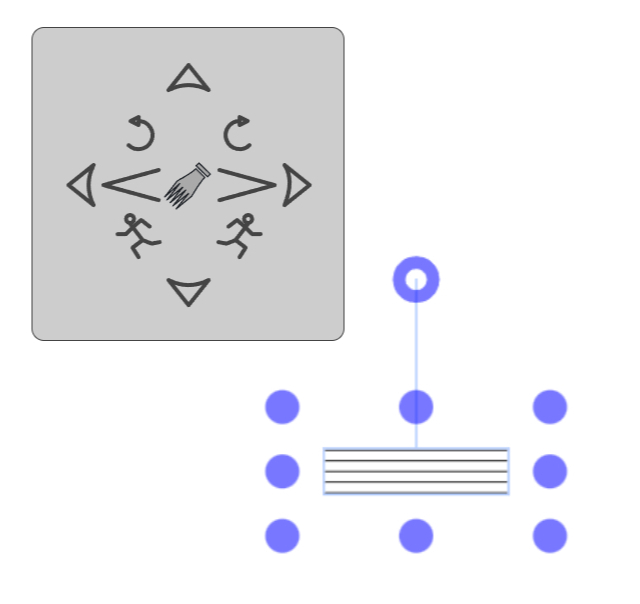
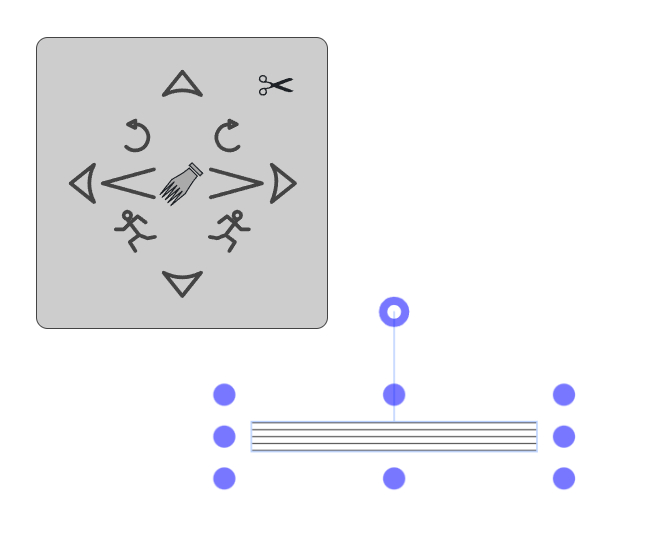
Trying to do last minute polishing.

diff --git a/doc/Guidebook.html b/doc/Guidebook.html
@@ -728,7 +728,7 @@ function closeVideo(event, container) {
                 <li><a href="#chapter-2-extension">2.1 Browser Extension</a> — <span style="color:#777">Install as a browser extension on desktop</span></li>
                 <li><a href="#chapter-2-pwa">2.2 Progressive Web App (PWA)</a> — <span style="color:#777">Install as a standalone app on any device</span></li>
                 <li><a href="#chapter-2-compat">2.3 Browser Compatibility</a> — <span style="color:#777">Supported browsers and platforms</span></li>
-                <li><a href="#chapter-2-footpedal">2.4 Foot Pedal</a> — <span style="color:#777">Page turning with a Bluetooth foot pedal</span></li>
+                <li><a href="#chapter-2-foot pedal">2.4 Foot Pedal</a> — <span style="color:#777">Page turning with a Bluetooth foot pedal</span></li>
             </ul>
         </li>
         <li><a href="#chapter-3">Chapter 3: Interface Basics</a> — <span style="color:#777">Menu, panels, gestures, background</span></li>
@@ -820,7 +820,7 @@ function closeVideo(event, container) {
     <p><strong>...with input devices:</strong></p>
     <ul>
         <li>S-Pen, Apple Pencil, USI styli, fingers and thumbs</li>
-        <li>Mouse, track pad, keyboard, footpedal page turners</li>
+        <li>Mouse, track pad, keyboard, foot pedal page turners</li>
     </ul>
     <p><strong>...and practice tools:</strong></p>
     <ul>
@@ -945,10 +945,10 @@ function closeVideo(event, container) {
     <p><a href="#chapter-3" class="chapter-link">See Chapter 3: Interface Basics</a> for complete interface details</p>
 
     <h4>Panels</h4>
-    <p>Cells with small diamond-shaped pointers (like compass points) conceal panels used to confgure the cell. Drag out from these cells to reveal the panel. Using this touch-drag-release motion, you can open and position any panel with a single gesture.  Once open, you can always reposition a panel by dragging on its textured header. Hide any panel by flinging it, in any direction, from the header. Alterntively,  close it by tapping the &#x1F5D9; button.</p>
+    <p>Cells with small diamond-shaped pointers (like compass points) conceal panels used to configure the cell. Drag out from these cells to reveal the panel. Using this touch-drag-release motion, you can open and position any panel with a single gesture. Once open, you can always reposition a panel by dragging on its textured header. Hide any panel by flinging it, in any direction, from the header. Alternatively, close it by tapping the &#x1F5D9; button.</p>
 
     <h4>Resizing and Moving</h4>
-    <p>We've just seen that panels can be moved my dragging on their textured header. In addition, everything in Podium—menu, panels, layouts—is resizable and movable using two-finger pinch-and-pan gestures (or Ctrl+mouse/Ctrl+wheel for desktop). <a href="#chapter-3" class="chapter-link">See Chapter 3: Interface Basics</a> for details.</p>
+    <p>We've just seen that panels can be moved by dragging on their textured header. In addition, everything in Podium—menu, panels, layouts—is resizable and movable using two-finger pinch-and-pan gestures (or Ctrl+mouse/Ctrl+wheel for desktop). <a href="#chapter-3" class="chapter-link">See Chapter 3: Interface Basics</a> for details.</p>
 
     <h4>Gestures:</h4>
     <ul>
@@ -1026,7 +1026,7 @@ function closeVideo(event, container) {
     <p><a href="#chapter-9" class="chapter-link">See Chapter 9: More Ring</a> for detailed information on each practice tool</p>
 
     <h3>Keyboard and Pedal Support</h3>
-    <p>Podium works with footpedal page turners that simulate arrow key presses. Configure arrow key behavior in the Page Ring's Numbers panel to map pedal presses to page turns or bookmark navigation.</p>
+    <p>Podium works with foot pedal page turners that simulate arrow key presses. Configure arrow key behavior in the Page Ring's Numbers panel to map pedal presses to page turns or bookmark navigation.</p>
     <p><a href="#chapter-7-numbers" class="chapter-link">See Chapter 7: Page Ring - Numbers</a> for keyboard shortcut configuration</p>
 
     <h3>Need Help?</h3>
@@ -1043,7 +1043,7 @@ function closeVideo(event, container) {
 
     <p>However, installation may be desirable in certain situations, especially when using Podium in performance where internet connectivity cannot be assumed.</p>
 
-    <p><strong>Offline use.</strong> After your first visit, Podium stores itself on your device automatically, so it can open and run without an internet connection, even without explicit installation. However, if you plan to use Podium offline, for example in performance, <strong>installing it is strongly recommended</strong>. Without explicit installation, the browser may quietly discard the stored copy when it needs space or when you clear your browsing history, leaving you without Podium when you need it most.  Fortunately, Podium is remarkably compact: the storage it uses on your device is roughly equivalent to two photos from a typical smartphone camera.</p>
+    <p><strong>Offline use.</strong> After your first visit, Podium stores itself on your device automatically, so it can open and run without an internet connection, even without explicit installation. However, if you plan to use Podium offline, for example in performance, <strong>installing it is strongly recommended</strong>. Without explicit installation, the browser may quietly discard the stored copy when it needs space or when you clear your browsing history, leaving you without Podium when you need it most. Fortunately, Podium is remarkably compact: the storage it uses on your device is roughly equivalent to two photos from a typical smartphone camera.</p>
 
     <p>Installing as a <strong>browser extension</strong> or <strong>PWA</strong> makes Podium a permanent resident on your device. The extension, being fully self-contained, is the most robust option for offline use on desktop. A PWA install is equally reliable on Android, desktop, and Chromebook. The one exception is iPhone and iPad: even as an installed PWA, the system may occasionally require an internet connection after a long period of inactivity; simply open Podium every now and then to keep it fresh.</p>
 
@@ -1083,7 +1083,7 @@ function closeVideo(event, container) {
 
     <p><strong>Android (Chrome):</strong> Tap the browser menu (three dots) and select <strong>Add to Home Screen</strong>. A popup will offer two options: choose <strong>Install</strong> (not "Create shortcut") for the full PWA experience with the correct icon and offline support. Podium will appear in your apps drawer, where you can add it to your home screen in the usual way.</p>
 
-    <p><strong>iPhone/iPad:</strong> Apple does not display automatic install prompts for PWAs. To install, open Podium in your mobile browser (such as Safari or Chrome), tap the <strong>Share button</strong> <span style="display:inline-block;position:relative;width:.7em;height:1em;vertical-align:-.15em;">&#x2610;<span style="position:absolute;left:.1em;top:-.55em;font-size:1.2em;">&#x2191;</span></span> in the toolbar (iPhone: bottom centre; iPad: beside the address bar), scroll down in the share sheet and tap <strong>"Add to Home Screen"</strong>, then tap <strong>"Add"</strong>. Once installed, the Podium icon appears on your home screen; if you long-press it, the system refers to it as a <strong>bookmark</strong> — this is normal Apple terminology for home screen web apps. Also note that if the PWA is not used for several weeks, the iPhone/iPad system may offload the app's data. This can cause settings to reset or require an internet connection to re-verify the app on its next launch. To prevent this, simply open Podium occasionally.</p>
+    <p><strong>iPhone/iPad:</strong> Apple does not display automatic install prompts for PWAs. To install, open Podium in your mobile browser (such as Safari or Chrome), tap the <strong>Share button</strong> <span style="display:inline-block;position:relative;width:.7em;height:1em;vertical-align:-.15em;">&#x2610;<span style="position:absolute;left:.1em;top:-.55em;font-size:1.2em;">&#x2191;</span></span> in the toolbar (iPhone: bottom center; iPad: beside the address bar), scroll down in the share sheet and tap <strong>"Add to Home Screen"</strong>, then tap <strong>"Add"</strong>. Once installed, the Podium icon appears on your home screen; if you long-press it, the system refers to it as a <strong>bookmark</strong> — this is normal Apple terminology for home screen web apps. Also note that if the PWA is not used for several weeks, the iPhone/iPad system may offload the app's data. This can cause settings to reset or require an internet connection to re-verify the app on its next launch. To prevent this, simply open Podium occasionally.</p>
 
     <div class="note">A significant advantage of the PWA over running Podium in a browser tab is that it always occupies the full screen with no browser toolbar, address bar, or other distractions: a clean, app-like experience unique to the PWA. As a result, the Screen button and the full-screen swipe gesture have no effect when running as a PWA, since Podium is already in full screen.</div>
 
@@ -1160,7 +1160,7 @@ function closeVideo(event, container) {
     <a href="#toc" class="back-to-toc">↑ Back to Table of Contents</a>
 </section>
 
-<section id="chapter-2-footpedal">
+<section id="chapter-2-foot pedal">
     <h3>2.4 Foot Pedal</h3>
 
     <p>Podium works with Bluetooth foot pedal page turners commonly used by performing musicians. Most foot pedals emulate keyboard arrow keys — Podium detects these and uses them to turn pages.</p>
@@ -1245,15 +1245,15 @@ function closeVideo(event, container) {
         <figcaption>Rotating a ring to reveal hidden cells when the menu is near a screen edge</figcaption>
     </figure>
 
-    <h3>Panels</h3>
+    <h3 id="chapter-3-panels">Panels</h3>
 
     <p>Menu cells with small diamond-shaped pointers contain hidden panels. To open a panel, drag inward or outward. As long as the drag motion isn't circular, the panel will be revealed&mdash;circular motion rotates the ring instead.</p>
 
-    <div class="note"> Revealing a panel does not activate the corresponding cell&mdash;cell activation by tapping is a completely independent gesture.</div>
+    <div class="note"> Revealing a panel does not activate the corresponding cell&mdash;cell activation by tapping is a completely independent gesture. However, once a panel is revealed, double-tapping its textured header can be used to activate or de-activate the cell.</div>
 
     <p><strong>Moving panels:</strong> Drag from the textured header, or use two-fingers (Ctrl-mouse-drag) to drag anywhere on the panel.</p>
 
-    <p><strong>Resizing panels:</strong> Use two-finger pinch-zoom, with at least one finger on the panel (Ctrl-mouse-wheel, or Ctrl-Shift-mouse wheel for greater precision).  Only the selected panel will resize.</p>
+    <p><strong>Resizing panels:</strong> Use two-finger pinch-zoom, with at least one finger on the panel (Ctrl-mouse-wheel, or Ctrl-Shift-mouse wheel for greater precision). Only the selected panel will resize.</p>
 
     <p><strong>Closing vs. hiding:</strong></p>
     <ul>
@@ -1262,6 +1262,8 @@ function closeVideo(event, container) {
     </ul>
 
     <div class="note">Most panels work the same whether closed or hidden. However, panels that run continuously (Metronome, Stopwatch, Clock, Review) will keep running in the background when hidden. For example, a hidden Metronome keeps ticking, but a closed one stops completely.</div>
+
+    <p><strong>Double-tap to activate:</strong> Double-tapping any panel's textured header activates its corresponding menu cell&mdash;exactly as if you had tapped the cell in the ring. If the second tap is a long press (held for about half a second), the cell is also locked. This is a convenient shortcut for activating or de-activating a tool from its open panel, without reaching for the menu.</p>
 
     <h3>Sliders</h3>
 
@@ -1428,7 +1430,7 @@ function closeVideo(event, container) {
         <li><strong>Page Range:</strong> Specify the start and end pages to print a subset of the score</li>
     </ul>
 
-    <div class="note"><strong>iPhone/iPad:</strong> Safari does not support automatic print dialogs from web apps. After tapping Ink or No Ink, your PDF will open in a new tab. From there, tap the Share button <span style="display:inline-block;position:relative;width:.7em;height:1em;vertical-align:-.15em;">&#x2610;<span style="position:absolute;left:.1em;top:-.55em;font-size:1.2em;">&#x2191;</span></span> in the toolbar (iPhone: bottom centre; iPad: beside the address bar) and choose <strong>Print</strong>.</div>
+    <div class="note"><strong>iPhone/iPad:</strong> Safari does not support automatic print dialogs from web apps. After tapping Ink or No Ink, your PDF will open in a new tab. From there, tap the Share button <span style="display:inline-block;position:relative;width:.7em;height:1em;vertical-align:-.15em;">&#x2610;<span style="position:absolute;left:.1em;top:-.55em;font-size:1.2em;">&#x2191;</span></span> in the toolbar (iPhone: bottom center; iPad: beside the address bar) and choose <strong>Print</strong>.</div>
 
     <div class="note">Large scores or scores with particularly dense or poorly encoded, unoptimized PDF content can fail while printing. If you encounter printing failures, try printing the score in several smaller sections by specifying different page ranges.</div>
 
@@ -1579,7 +1581,7 @@ function closeVideo(event, container) {
 
     <p>Settings for this layout function identically to the Horizontal Layout, see previous section.</p>
 
-    <div class="note">If you have a footpedal, try using a very slow <strong>Pace:</strong> setting with Vertical Layout. If you set the <strong>pgSnap:</strong> value to, say 1/2 a page, and use a pace around 8 seconds/snap, then a footpedal press will cause the page to scroll upward gradually as you read it, allowing you to easily read across the boundary between one page and the next. This technique is illustrated in the video above.</div>
+    <div class="note">If you have a foot pedal, try using a very slow <strong>Pace:</strong> setting with Vertical Layout. If you set the <strong>pgSnap:</strong> value to, say 1/2 a page, and use a pace around 8 seconds/snap, then a foot pedal press will cause the page to scroll upward gradually as you read it, allowing you to easily read across the boundary between one page and the next. This technique is illustrated in the video above.</div>
 
     <div class="note"><strong>Try disabling Snap.</strong> Slide the Snap slider all the way to the left to turn it off. With snapping disabled, pages scroll freely and continuously, letting you position the score exactly where you need it. You can line up the bottom of one page directly above the top of the next, eliminating the visual interruption between pages. </div>
 
@@ -1849,6 +1851,8 @@ function closeVideo(event, container) {
     <h4>Edit Panel</h4>
 
     <p>Drag out from the Edit cell to open the Edit panel, which provides precise controls for fine-tuning the position, size, and rotation of annotation objects — particularly useful when touch handles are too coarse for accurate adjustment, or when working with a stylus.</p>
+    <div class="note"><strong>Pro Tip:</strong> While editing annotations using direct manipulation works great for quick, simple tasks, the Edit Panel becomes invaluable when annotations become dense. Highly recommended if you are doing a lot of annotation.</div>
+
 
     <figure>
         <img src="assets/inkedit.jpg" alt="Edit panel (detached), showing a rastrum annotation as the current target">
@@ -1857,13 +1861,18 @@ function closeVideo(event, container) {
 
     <p>The center of the panel displays the icon of the currently selected <strong>target object</strong>. To change the target, simply touch or interact with the desired annotation. Alternatively, use the <strong>running stick-figure</strong> icons to step to the next or previous annotation, on the same page, in stacking order. Stacking order is determined by interaction history: the most recently touched or moved object sits at the front of the stack.</p>
 
+    <p>When the Edit Panel is open, clicking on an empty spot on a page&mdash;where there is no annotation&mdash;will automatically select the most recently selected annotation on that page.</p>
+
     <ul>
         <li><strong>Arrow buttons</strong> — move the target left, right, up, or down.</li>
         <li><strong>Crescendo button</strong> — enlarges the target.</li>
         <li><strong>Decrescendo button</strong> — shrinks the target.</li>
         <li><strong>Rotation buttons</strong> — rotate the target clockwise or counterclockwise.</li>
-        <li><strong>Runner buttons</strong> — target the next of previous annotation on the page.</li>
+        <li><strong>Runner buttons</strong> — target the next or previous annotation on the page.</li>
+        <li><strong>Scissors button</strong> — cuts the target annotation, placing it in the paste buffer. The next annotation in stacking order automatically becomes the new target.</li>
     </ul>
+
+    <p><strong>Keyboard shortcut:</strong> When an annotation is selected, pressing <kbd>Delete</kbd> or <kbd>Backspace</kbd> cuts it&mdash;equivalent to tapping the scissors button.</p>
 
     <h3>Annotations and Workflow Tips</h3>
 
@@ -1874,8 +1883,6 @@ function closeVideo(event, container) {
     <p><strong>Performance considerations:</strong> Annotations, especially free drawings with many pen/pencil strokes, can significantly increase the size of a saved score. For complex annotated pages, consider using the Flatten operation (in the <a href="#chapter-7" class="chapter-link">Page Ring</a>) to convert annotations into the PDF itself, which can improve performance.</p>
 
     <p><strong>Precision workflow:</strong> For precise notation work, combine the Grid tool with Rastrum for staff placement, then use Symbols to add notation. The Edit tool allows fine-tuning of symbol positions after placement.</p>
-
-    <p><strong>Reusable symbol library:</strong> If you frequently reuse a set of symbols, <a href="#chapter-7-add" class="chapter-link">add a blank page</a> to your score and place those symbols on it. This creates a personal symbol library that's always available for Copy/Paste. You can easily move this symbol set page around the score using Page Ring commands or by dragging pages in the <a href="#chapter-5-table" class="chapter-link">Table Layout</a>.</p>
 
     <a href="#toc" class="back-to-toc">↑ Back to Table of Contents</a>
 </section>
@@ -1944,9 +1951,9 @@ function closeVideo(event, container) {
 
     <p>This is useful when working with excerpts from larger scores. Here, you might have extracted a title page, table of contents, and pages 143-145 from a complete work. The numbering scheme preserves the original page references.</p>
 
-    <h4>Footpedal Keys:</h4>
+    <h4>Foot Pedal Keys:</h4>
 
-    <p>These controls are designed for Bluetooth footpedal page turners commonly used by musicians. Since footpedals are simply specialized keyboards with only a few keys, these commands work equally well with regular computer keyboards.</p>
+    <p>These controls are designed for Bluetooth foot pedal page turners commonly used by musicians. Since footpedals are simply specialized keyboards with only a few keys, these commands work equally well with regular computer keyboards.</p>
 
     <p>You can assign one shortcut to the up or right cursor arrow keys, and one to the left or down cursor arrow keys. Tap the appropriate button to determine if an up or right key press will navigate to the next page, or instead navigate to the next bookmark. Similarly, choose the appropriate button to determine if the left or down keys will navigate to the previous page, or navigate to the previous bookmark.</p>
 
@@ -1960,7 +1967,7 @@ function closeVideo(event, container) {
         <li><strong>End:</strong> Jump to last page</li>
         <li><strong>Ctrl+Home:</strong> Jump to first bookmark</li>
         <li><strong>Ctrl+End:</strong> Jump to last bookmark</li>
-        <li><strong>Ctrl+Arrow:</strong> Navigate to next/previous bookmark (regardless of the footpedal arrow key setting above)</li>
+        <li><strong>Ctrl+Arrow:</strong> Navigate to next/previous bookmark (regardless of the foot pedal arrow key setting above)</li>
         <li><strong>PageUp / PageDown:</strong> Navigate to previous/next page</li>
     </ul>
 
@@ -2073,7 +2080,7 @@ function closeVideo(event, container) {
     <p>In Podium, each page comprises two overlapping layers:</p>
     <ul>
         <li>A background layer that displays the PDF content of the score [courtesy of the open-source Mozilla PDF library].</li>
-        <li>An annotation layer that displays editable Ink objects added to the score [courtesy of the open-source fabricjs library].</li>
+        <li>An annotation layer that displays editable Ink objects added to the score [courtesy of the open-source Fabric.js library].</li>
     </ul>
 
     <p>Activate the Flatten cell, then tap a page to flatten its annotation layer into the background layer. The operation converts all of the page's Ink annotation objects into PDF objects, then incorporates these objects into the background PDF layer [courtesy of the open-source pdf-lib library]. After that, these objects can no longer be selected or edited: they have become an integral part of the score's background PDF.</p>
@@ -2252,6 +2259,8 @@ function closeVideo(event, container) {
 
     <p>To change the target, simply touch or interact with the desired object. Alternatively, use the <strong>running stick-figure</strong> icons on the panel to step to the next or previous Podium object in stacking order. Stacking order is determined by interaction history: the most recently touched or moved object sits at the front of the stack.</p>
 
+    <p>When the Edit Panel is open, clicking on an empty spot on a page&mdash;where there is no annotation&mdash;will automatically select the most recently selected annotation on that page.</p>
+
     <a href="#toc" class="back-to-toc">↑ Back to Table of Contents</a>
 </section>
 
@@ -2376,7 +2385,7 @@ function closeVideo(event, container) {
 
     <div class="note">The pitch detector is monophonic: it works best with a single note at a time. When multiple pitches or unpitched sounds (such as speech or noise) are present in the microphone input, the detector will produce unreliable results.</div>
 
-    <div class="note"><strong>iPhone/iPad:</strong> Due to audio system constraints on these devices, the microphone indicator will remain active after the pitch detector is turned off. This is expected behaviour — the microphone is kept open in the background to prevent interruption of piano and metronome audio. The microphone is fully released when the Piano panel is closed.</div>
+    <div class="note"><strong>iPhone/iPad:</strong> Due to audio system constraints on these devices, the microphone indicator will remain active after the pitch detector is turned off. This is expected behavior — the microphone is kept open in the background to prevent interruption of piano and metronome audio. The microphone is fully released when the Piano panel is closed.</div>
 
     <figure>
         <img src="assets/morepianodetect.jpg" alt="Piano pitch detector">
@@ -2481,7 +2490,7 @@ function closeVideo(event, container) {
         <li><strong>Progressive search</strong> — as you type, the result in the active changes to show only the first matching item. Progressive search is available in file panels (Open and Save) and in any dropdown, most usefully the category picker in the <a href="#chapter-6-symbols" class="chapter-link">Symbols panel</a>.</li>
     </ul>
 
-    <p>The key labelled "<strong>…</strong>" switches the keyboard to its <strong>special keys</strong> layout, which includes international characters, cursor arrow keys, and the Home and End keys. The key labelled "<strong>Aa</strong>" switches back to the normal letter keys. The arrow keys are also useful for testing your <a href="#chapter-7-numbers" class="chapter-link">Bluetooth footpedal configuration</a> without needing the physical pedal nearby.</p>
+    <p>The key labeled "<strong>…</strong>" switches the keyboard to its <strong>special keys</strong> layout, which includes international characters, cursor arrow keys, and the Home and End keys. The key labeled "<strong>Aa</strong>" switches back to the normal letter keys. The arrow keys are also useful for testing your <a href="#chapter-7-numbers" class="chapter-link">Bluetooth foot pedal configuration</a> without needing the physical pedal nearby.</p>
 
 
     <figure>
@@ -2584,7 +2593,7 @@ function closeVideo(event, container) {
         <dt>Firefox settings</dt><dd> &mdash; <a href="#firefox-settings">4.1</a></dd>
         <dt>Flatten<svg class="gb-icon" style="margin-left:0.3em"><use href="#gb-flatten"/></svg></dt><dd> &mdash; <a href="#chapter-7-flatten">7.7</a></dd>
         <dt>Fling gesture</dt><dd> &mdash; <a href="#chapter-5-page-turning">4.1</a>, <a href="#chapter-3">Ch.3</a></dd>
-        <dt>Footpedal</dt><dd> &mdash; <a href="#chapter-7-numbers">7.1</a>, <a href="#chapter-2-footpedal">chapter-2-footpedal</a></dd>
+        <dt>Foot Pedal</dt><dd> &mdash; <a href="#chapter-7-numbers">7.1</a>, <a href="#chapter-2-foot pedal">chapter-2-foot pedal</a></dd>
         <dt>Full screen</dt><dd> &mdash; <a href="#chapter-8-screen">8.7</a>, <a href="#chapter-3">Ch.3</a></dd>
     </dl>
     <div class="idx-letter">G</div>

diff --git a/src/score.js b/src/score.js
@@ -258,16 +258,6 @@ class Pg {
           }
         }
 
-        canvas.on('text:editing:entered', (e) => {
-          // text box's cursor can be misaligned without this:
-          if(e.target && e.target.type == 'textbox') {
-            fabric.charWidthsCache = {} ; // clear this cache
-            e.target.initDimensions() ;
-            e.target.setCoords();
-            e.target.selectionStart = e.target.selectionStart;
-          }
-        });
-
         if (_menu_.activeRing.key == "ink" && ["cut","copy","edit"].includes(_menu_.activeRing.activeCell.key))
          _menu_.pgEvent(opts, this);
         EditPanel.update(this.canvas.getActiveObject()) ;
@@ -275,6 +265,16 @@ class Pg {
 
       canvas.on("selection:created", onSelection);
       canvas.on("selection:updated", onSelection);
+
+      canvas.on('text:editing:entered', (e) => {
+        // text box's cursor can be misaligned without this:
+        if(e.target && e.target.type == 'textbox') {
+          fabric.charWidthsCache = {} ; // clear this cache
+          e.target.initDimensions() ;
+          e.target.setCoords();
+          e.target.selectionStart = e.target.selectionStart;
+        }
+      });
 
       canvas.on("selection:cleared", () => {
         canvas.perPixelTargetFind = true;
@@ -382,12 +382,14 @@ class Pg {
 
       // create object URL for fabric canvas
       let fabCanvas = this.canvas.toCanvasElement(scale * this.stretch);
+      if (this.fabUrl) URL.revokeObjectURL(this.fabUrl);
       this.fabUrl = URL.createObjectURL(await new Promise((res) => fabCanvas.toBlob((b) => res(b))));
 
       if(this.mozCanvas) {
         // create obj URL for mozCanvas (from mozilla pdf src);
         let pdfCanvas = helm(`<canvas width="${maxW}" height="${maxH}"></canvas>`);
         pdfCanvas.getContext("2d").drawImage(this.mozCanvas, 0, 0, maxW, maxH);
+        if (this.pdfUrl) URL.revokeObjectURL(this.pdfUrl);
         this.pdfUrl = URL.createObjectURL(await new Promise((res) => pdfCanvas.toBlob((b) => res(b))));
         // set both fabricCanvas (annotations) and pdfCanvas (pdf image) as background to thumbElm
         this.thumbElm.style.backgroundImage = "url('" + this.fabUrl + "'), url('" + this.pdfUrl + "')";

diff --git a/doc/releaseNotes.html b/doc/releaseNotes.html
@@ -179,8 +179,8 @@
     <h2>Versions</h2>
     <ul>
         <li><a href="#v2.1">Version 2.1</a> <span class="version-date">— upcoming</span></li>
-        <li><a href="#v2.0">Version 2.0</a> <span class="version-date">— March 2026</span></li>
         <li><a href="#v2.0.2">Version 2.0.2</a> <span class="version-date">— April 2026</span></li>
+        <li><a href="#v2.0">Version 2.0</a> <span class="version-date">— March 2026</span></li>
         <li><a href="#v1.1">Version 1.1</a> <span class="version-date">— December 2025</span></li>
         <li><a href="#v1.0">Version 1.0</a> <span class="version-date">— March 2025</span></li>
     </ul>
@@ -272,6 +272,15 @@
         <p>The center of the panel shows the icon of the current target annotation. Touch any annotation to make it the target, or use the running stick-figure icons to step through annotations in stacking order. Four arrow buttons move the target; crescendo and decrescendo buttons enlarge or shrink it; and two rotation buttons rotate it clockwise or counterclockwise.</p>
         <p class="guidebook-link">
             See the Guidebook: <a href="Guidebook.html#chapter-6-edit">§6.8 Edit</a>
+        </p>
+    </div>
+
+    <div class="entry">
+        <h3>Double-Tap Panel Header to Activate Cell</h3>
+        <p class="location">Any panel → header</p>
+        <p>Double-tapping any panel's textured header now activates its corresponding menu cell&mdash;exactly as if you had tapped the cell in the ring. This is a convenient shortcut for re-activating a tool from its open panel, without reaching for the menu. If the second tap is held for about half a second (a long press), the cell is also locked.</p>
+        <p class="guidebook-link">
+            See the Guidebook: <a href="Guidebook.html#chapter-3-panels">§3 Panels</a>
         </p>
     </div>
 

diff --git a/src/panel.js b/src/panel.js
@@ -1244,7 +1244,7 @@ class ImportPanel extends Panel {
     buttons.elm.style.borderTop = ".02em solid var(--color-border)";   
     this.buttons.replaceWith(buttons.elm);
 
-    listen(_body_, "SHAREDBUFFER", async (e) => {
+    this.listeners.push(listen(_body_, "SHAREDBUFFER", async (e) => {
       _shade_.show("Building...");
       let score = await _podPb_.getScore();
       let thumbs = [];
@@ -1275,7 +1275,7 @@ class ImportPanel extends Panel {
         buttons.defs.Clear.disabled = true;
       }
       buttons.refresh() ;
-    })
+    }));
   }
 
   show() {
@@ -1764,12 +1764,10 @@ class NumbersPanel extends Panel {
     );
     this.reverse.replaceWith(this.reverseGroup.elm);
 
-
-
-    listen(_body_, "NUMBERS", (e) => {
+    this.listeners.push(listen(_body_, "NUMBERS", (e) => {
       if (e.detail.sender === this) return;
-      this.refresh(); 
-    });
+      this.refresh();
+    }));
   }
 
   refresh() {
@@ -3073,13 +3071,13 @@ class PrintPanel extends Panel {
       last: {min:1, max:props.last, step:1, value:props.last,  msg: msgCallback},
     });
     this.last.replaceWith(this.lastSlider.elm);
-    listen(_body_, "NUMBERS", (e) => {
+    this.listeners.push(listen(_body_, "NUMBERS", (e) => {
       this.firstSlider.defs.first.max = this.lastSlider.defs.last.max = _score_.pgs.length;
       props.last  = Math.min(_score_.pgs.length, props.last);
       props.first  = Math.min(_score_.pgs.length, props.first);
       this.firstSlider.refresh();
       this.lastSlider.refresh();
-    });
+    }));
   }
 
 }
